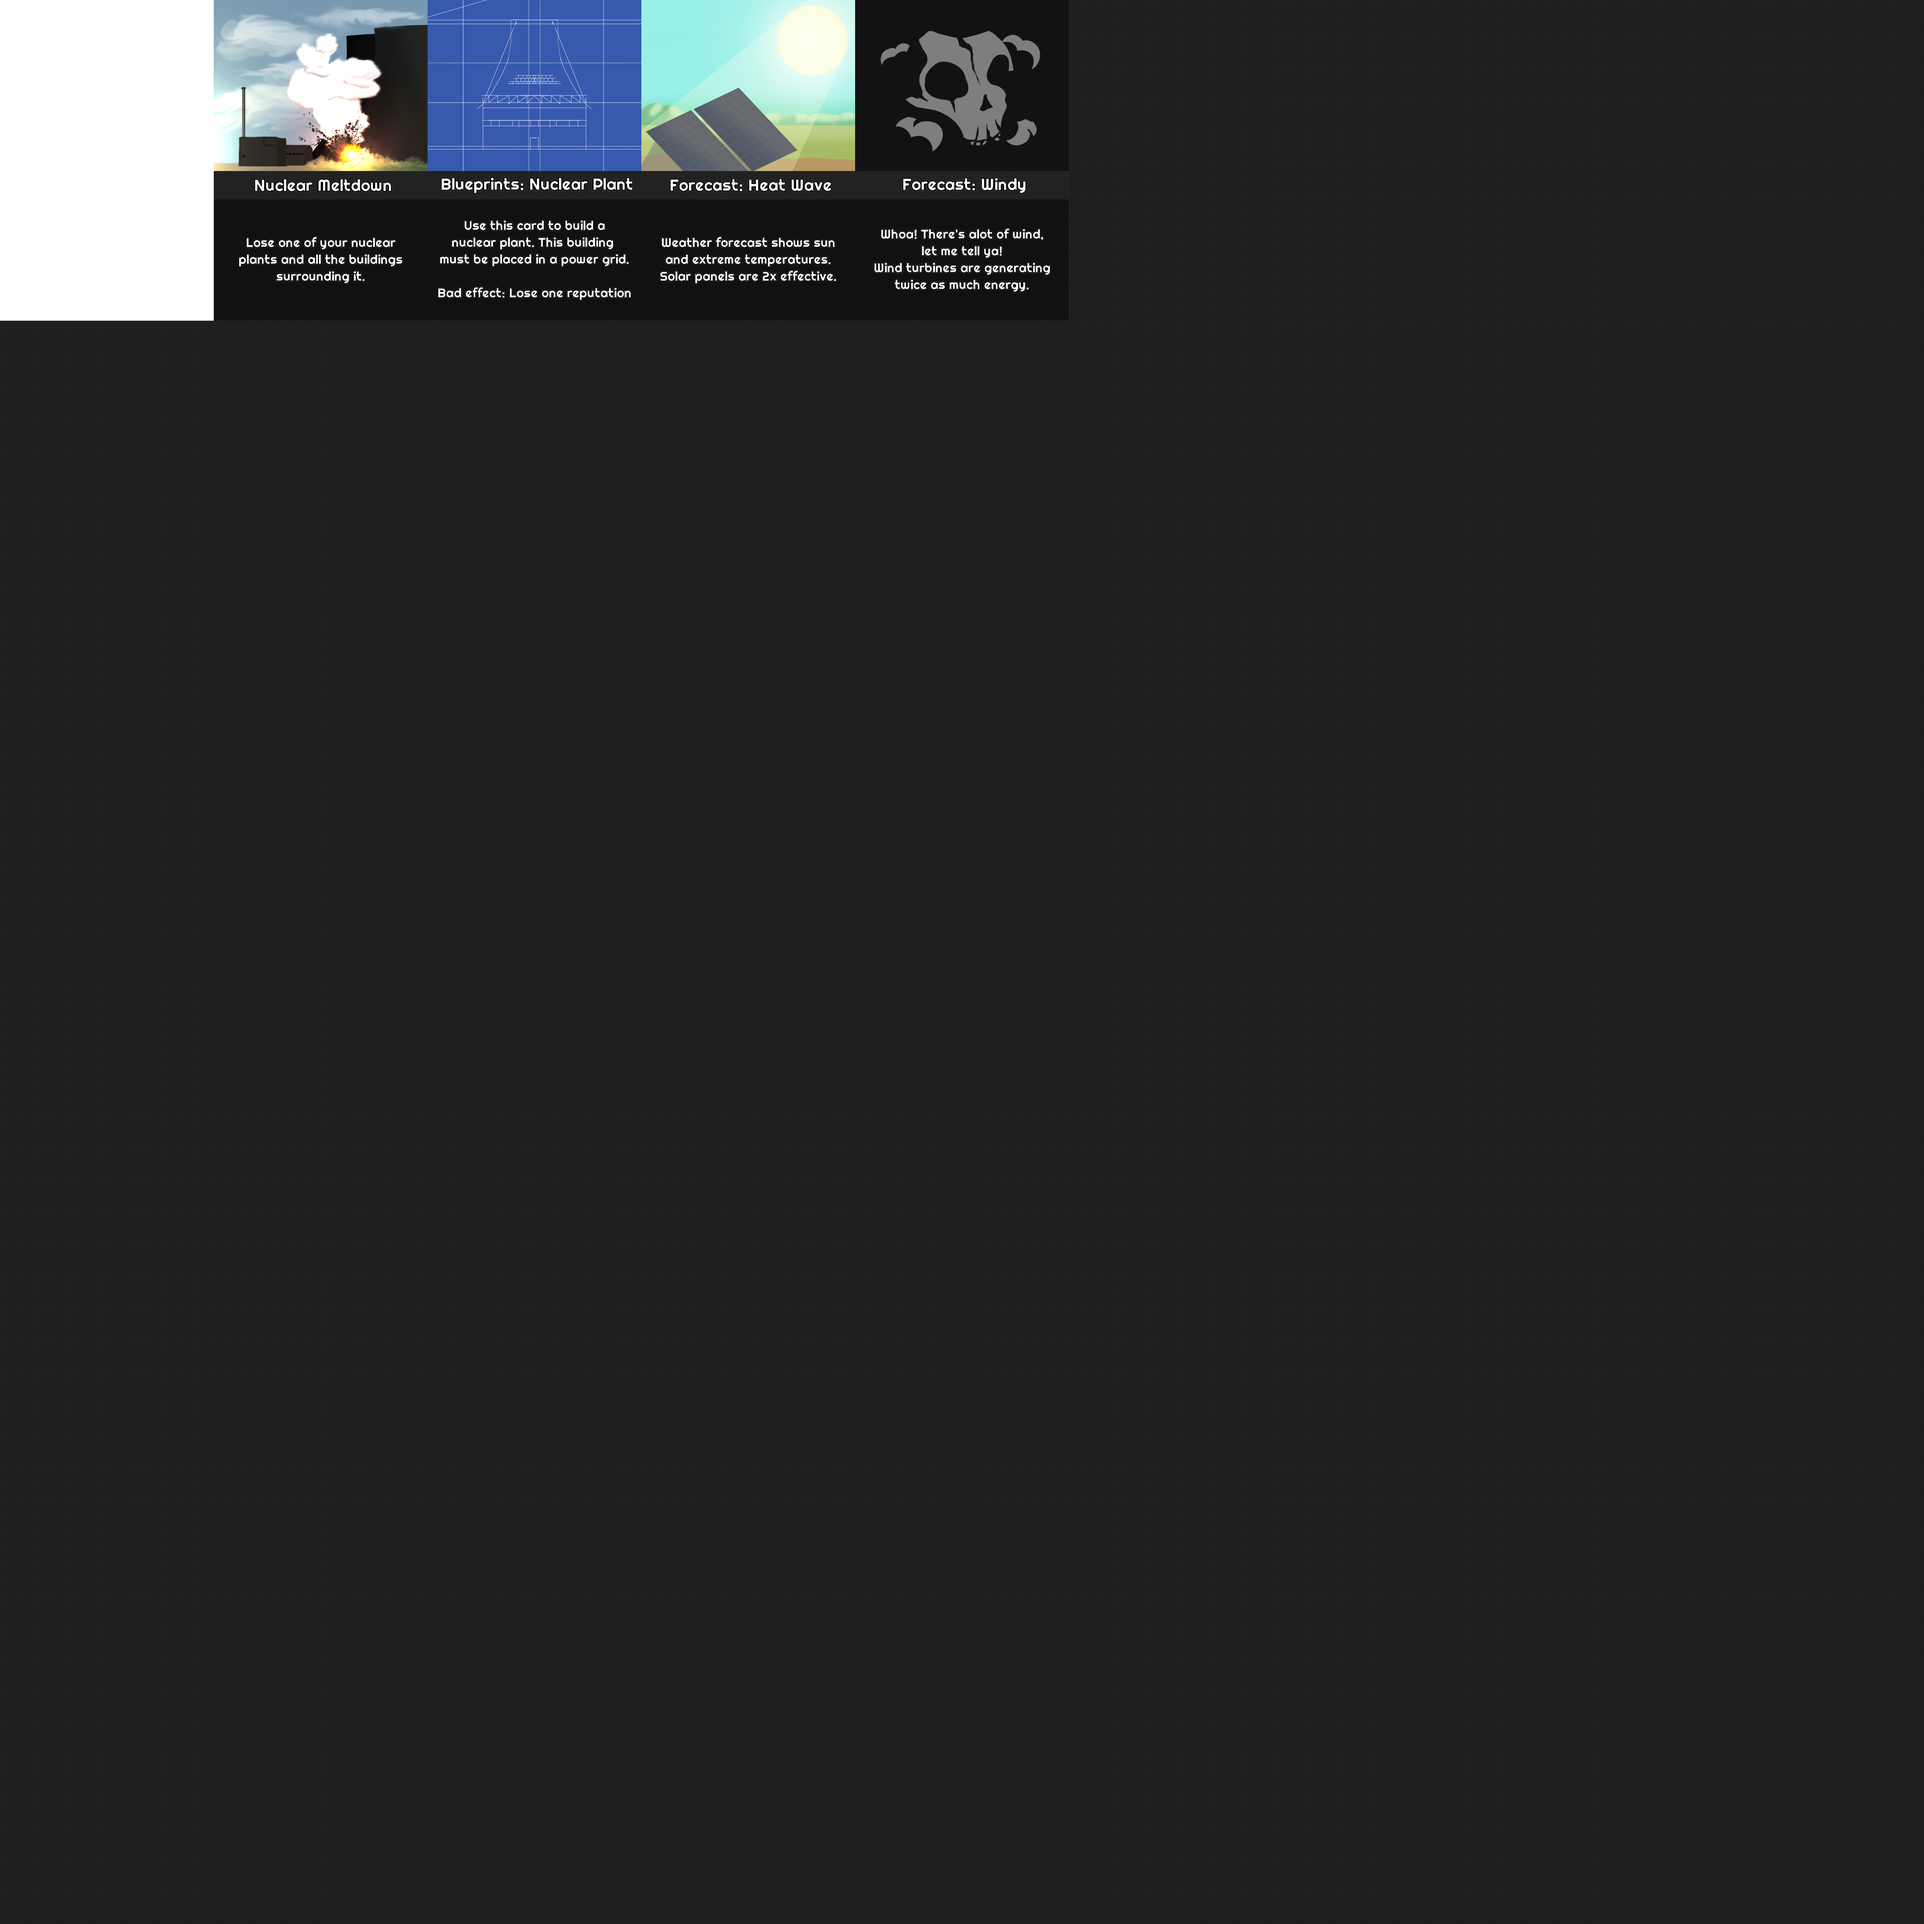
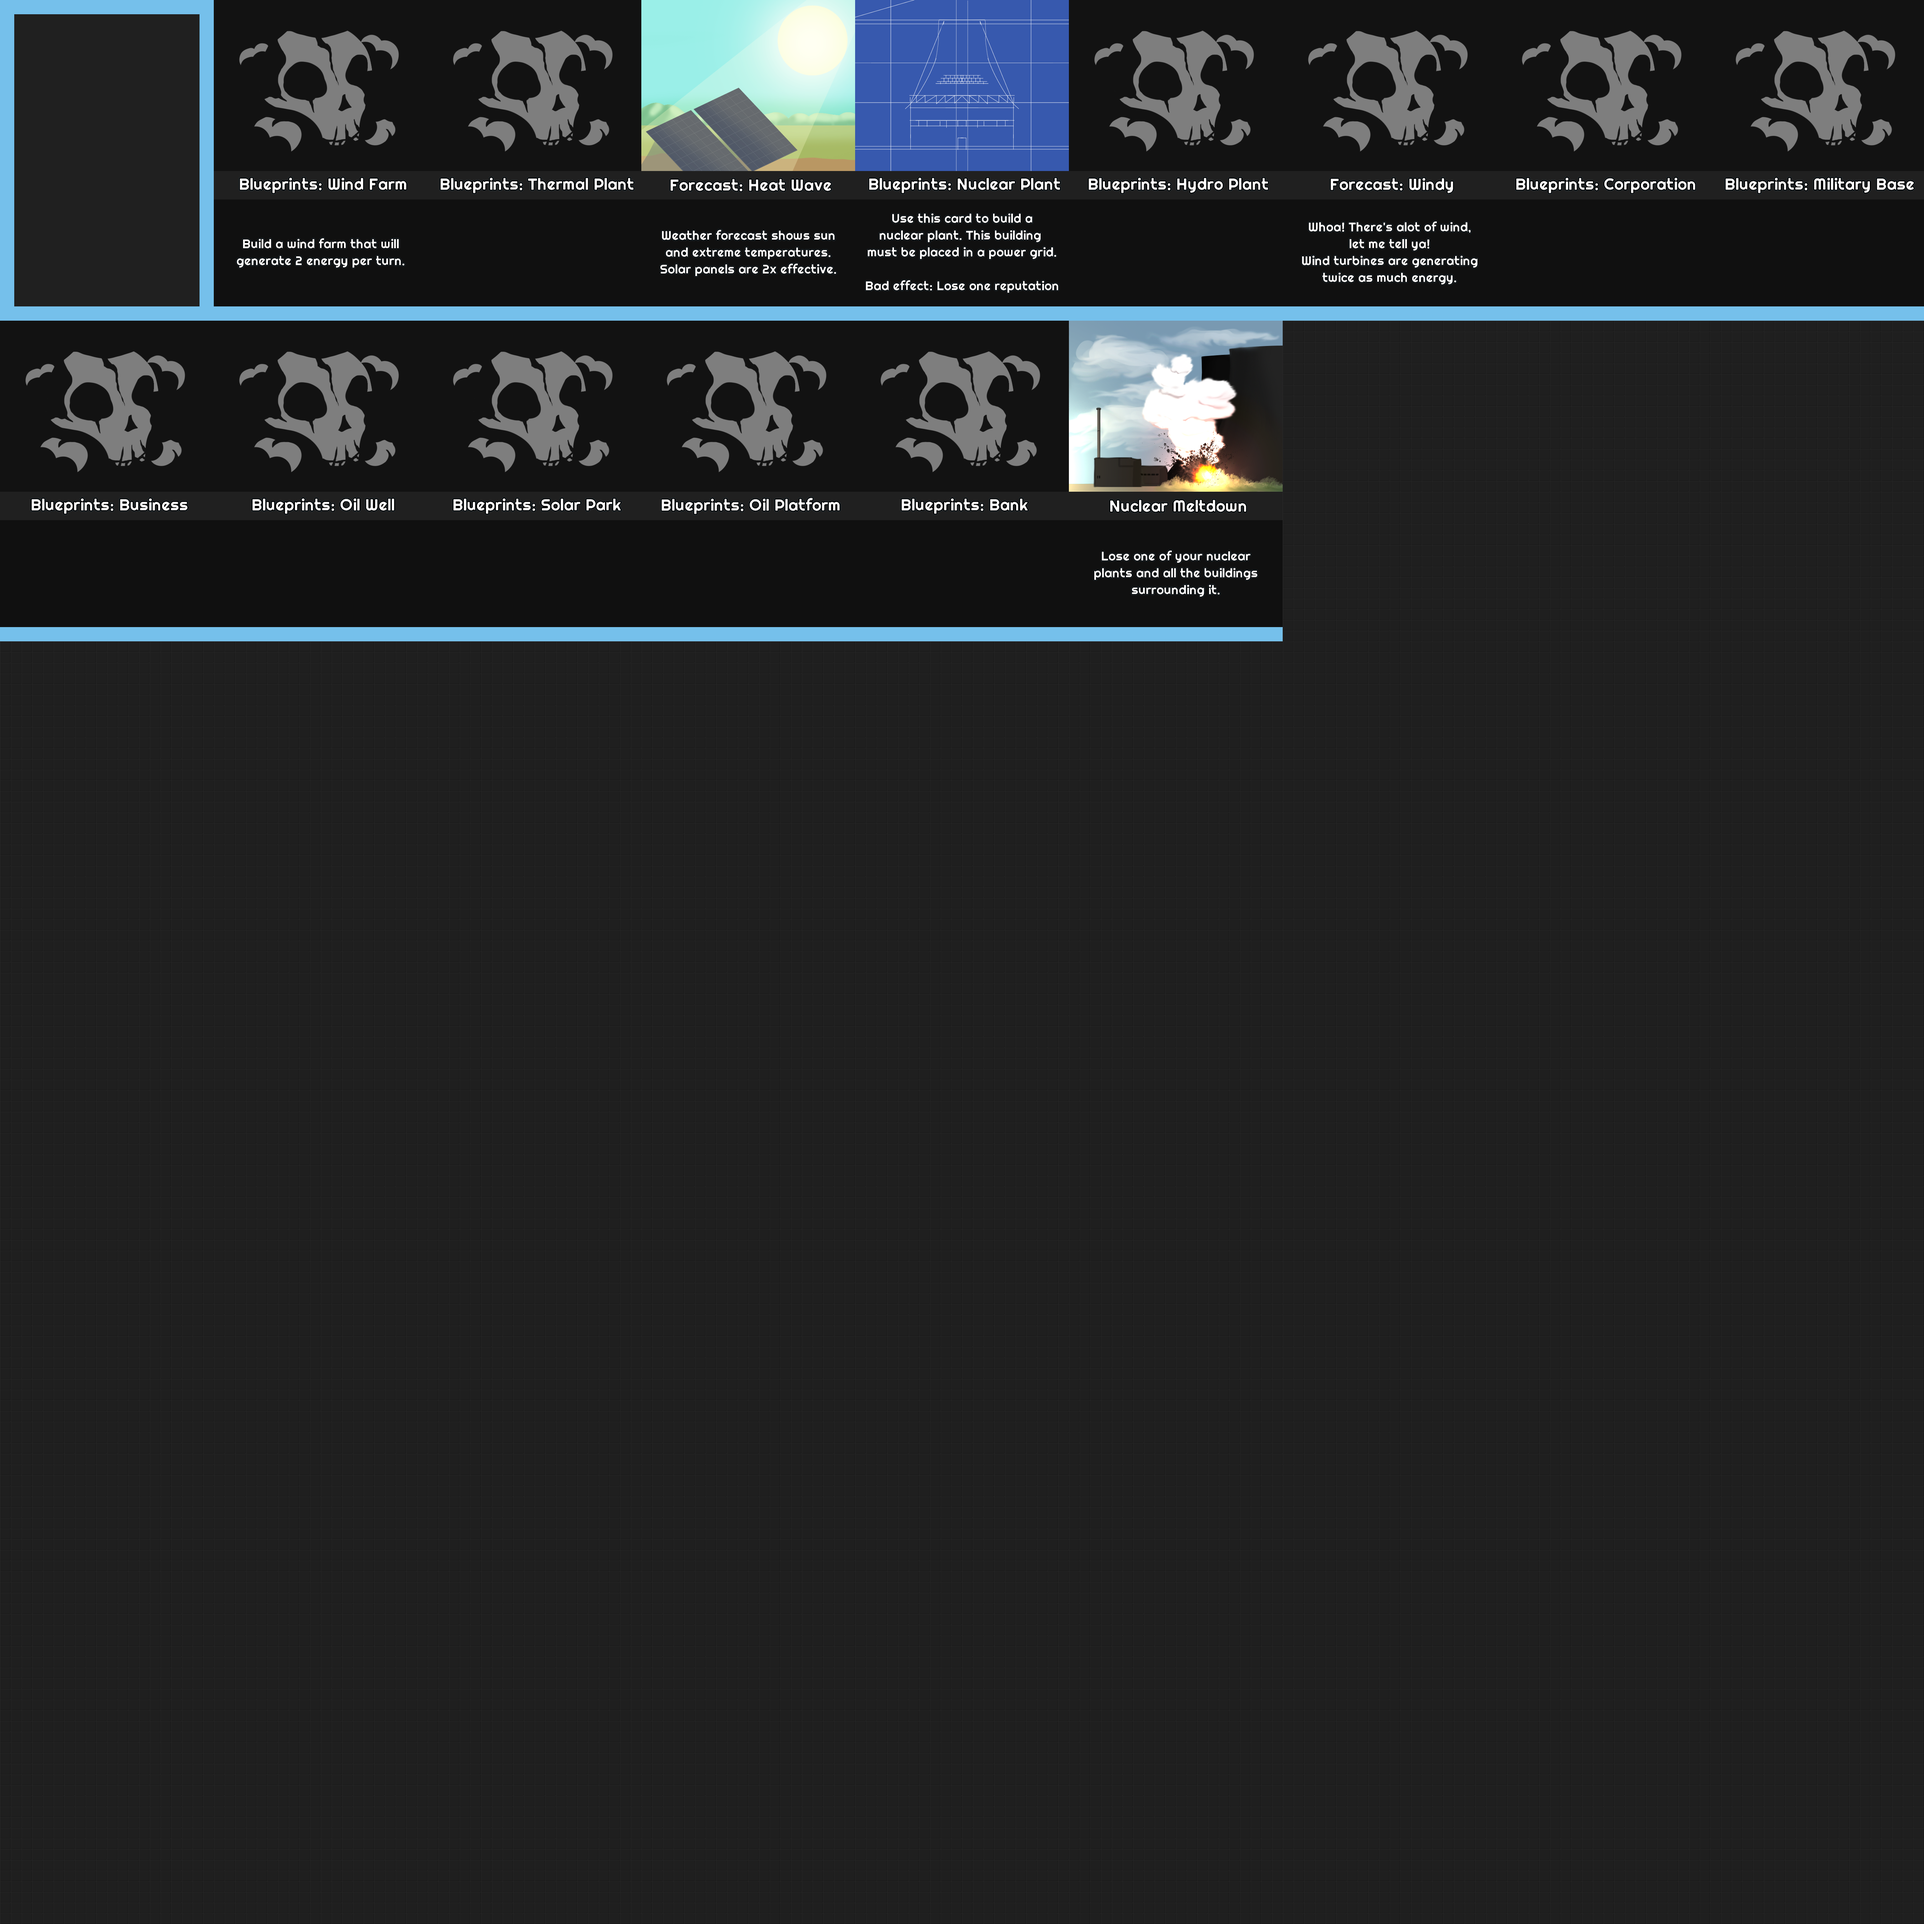
added some cards and work on card animation

Changed region(s): [[0.0, 0.0, 1.0, 0.3422]]

diff --git a/cardgen/cardgen.cpp b/cardgen/cardgen.cpp
@@ -7,7 +7,7 @@
 #include "utility.h"
 #include "glcolor.h"
 
-void CardGen::generateImage(const std::string& id)
+void CardGen::generateImage(const std::string& id, const std::string& destination)
 {
     lithium::Frame* frame = _canvas->frameById(id);
 
@@ -24,7 +24,7 @@ void CardGen::generateImage(const std::string& id)
     int numOfComponents = 3; // RGB
     int strideInBytes   = width * 3;
     stbi_flip_vertically_on_write(true);
-    stbi_write_png("test.png", width, height, 3, data, width * 3);
+    stbi_write_png(destination.c_str(), width, height, 3, data, width * 3);
     stbi_image_free(data);
 }
 
@@ -194,6 +194,14 @@ CardGen::CardGen() : lithium::Application{"lithium-lab", glm::ivec2{1920, 1080},
 
     auto bodyText = bodyFrame->createTextRenderer()->createText(_font, _cardIt->body, 1.1f, lithium::Text::Alignment::CENTER, 1.0f, 1.05f);*/
 
+    const lithium::Color accent{0x75c0eb};
+    const lithium::Color gray{0x202020};
+    const lithium::Color darkGray{0x101010};
+
+    auto backsideFrame = _canvas->frameById("backside");
+    backsideFrame->setColor(accent);
+    backsideFrame->child(0)->setColor(gray);
+
     lithium::json::Json json;
     json.fromFile("cardgen/assets/card_a.json");
     _cardLayoutSystem.load(json);
@@ -208,10 +216,11 @@ CardGen::CardGen() : lithium::Application{"lithium-lab", glm::ivec2{1920, 1080},
         lithium::FrameLayout* cardLayout = canvasFrame->layout()->appendChild(*_cardLayoutSystem.root());
         _canvas->refreshUI();
         auto cardFrame = _canvas->addFrame(cardLayout);
+        cardFrame->setColor(accent);
         cardFrame->frameById("thumbnail")->setTextures(std::vector<lithium::Object::TexturePointer>{card->texture});
-        dynamic_cast<lithium::Frame*>(cardFrame->frameById("title")->setColor(lithium::Color(0x222222)))
+        dynamic_cast<lithium::Frame*>(cardFrame->frameById("title")->setColor(gray))
             ->createTextRenderer()->createText(_font, card->title, 1.4f, lithium::Text::Alignment::CENTER, 1.0f, 1.05f);
-        dynamic_cast<lithium::Frame*>(cardFrame->frameById("body")->setColor(lithium::Color(0x111111)))
+        dynamic_cast<lithium::Frame*>(cardFrame->frameById("body")->setColor(darkGray))
             ->createTextRenderer()->createText(_font, card->body, 1.1f, lithium::Text::Alignment::CENTER, 1.0f, 1.05f);
     }
 
@@ -249,7 +258,7 @@ CardGen::CardGen() : lithium::Application{"lithium-lab", glm::ivec2{1920, 1080},
     });
 
     input()->addPressedCallback(GLFW_KEY_F1, [this](int key, int mods) {
-        generateImage("canvas");
+        generateImage("canvas", "assets/card/test.png");
         return true;
     });
     input()->addPressedCallback(GLFW_KEY_F5, [this](int key, int mods) {

diff --git a/src/app.cpp b/src/app.cpp
@@ -3,6 +3,7 @@
 #include "assetfactory.h"
 
 #include "glcube.h"
+#include "cardobject.h"
 
 App::App() : Application{"lithium-lab", glm::ivec2{1440, 800}, lithium::Application::Mode::MULTISAMPLED_4X, false}
 {
@@ -22,16 +23,20 @@ App::App() : Application{"lithium-lab", glm::ivec2{1440, 800}, lithium::Applicat
     _pipeline->attach(_background.get());
     _background->stage();
 
+    CardObject::sharedMesh = AssetFactory::getMeshes()->card;
+    CardObject::sharedTextures.push_back(AssetFactory::getTextures()->card);
+
     // Create and add a cube to the render pipeline, and stage it for rendering.
-    auto card = std::make_shared<lithium::Object>(AssetFactory::getMeshes()->card,
-        std::vector<lithium::Object::TexturePointer>{AssetFactory::getTextures()->card});
-    card->setPosition(glm::vec3{1.0f, 0.0f, 2.0f});
-    card->setRotation(glm::vec3{90.0f, 0.0f, 0.0f});
-    card->setScale(1.0f);
-    card->setGroupId(Pipeline::CARD);
-    _pipeline->attach(card.get());
-    _objects.push_back(card);
-    card->stage();
+    for(int i{0}; i < 7; ++ i)
+    {
+        auto card = std::make_shared<CardObject>(i, i + 1);
+        card->setPosition(glm::vec3{1.0f, 0.025f * i, 2.0f});
+        card->setRotation(glm::vec3{90.0f, 0.0f, 0.0f});
+        card->setGroupId(Pipeline::CARD);
+        _pipeline->attach(card.get());
+        _hand.addCard(card);
+        card->stage();
+    }
 
     static constexpr size_t numSpheres = 15;
 
@@ -194,7 +199,7 @@ App::App() : Application{"lithium-lab", glm::ivec2{1440, 800}, lithium::Applicat
 
     // Set the camera oirigin position and target.
     _pipeline->camera()->setTarget(glm::vec3{0.0f, 1.0f, 0.0f});
-    _pipeline->camera()->setTarget(card->position());
+    _pipeline->camera()->setTarget(glm::vec3{1.0f, 0.0f, 2.0f});
 
     printf("%s\n", glGetString(GL_VERSION));
 }
@@ -237,6 +242,7 @@ void App::update(float dt)
     float camX = sin(_cameraAngle) * cameraRadius;
     float camZ = cos(_cameraAngle) * cameraRadius;
     _pipeline->camera()->setPosition(glm::vec3{camX, _camY, camZ});
+    _hand.update(dt);
     _cubemapHDR->bind(GL_TEXTURE0);
     _pipeline->setTime(time());
     _pipeline->render();

diff --git a/include/hand.h b/include/hand.h
@@ -1,0 +1,59 @@
+#pragma once
+
+#include "ihand.h"
+#include "cardobject.h"
+#include "glupdateable.h"
+
+class Hand : public IHand, public lithium::Updateable
+{
+public:
+    Hand()
+    {
+
+    }
+
+    virtual ~Hand() noexcept
+    {
+
+    }
+
+    virtual void update(float dt) override
+    {
+        lithium::Updateable::update(dt);
+        for(auto& card : _cards)
+        {
+            card->update(dt);
+        }
+    }
+
+    void addCard(std::shared_ptr<CardObject> card)
+    {
+        _cards.push_back(card);
+        card->setIHand(this);
+    }
+
+    virtual int slots() const override
+    {
+        return 7;
+    }
+
+    virtual int cards() const override
+    {
+        return _cards.size();
+    }
+
+    virtual int index(CardObject* cardObject) const override
+    {
+        for(int idx{0}; idx < _cards.size(); ++idx)
+        {
+            if(_cards[idx].get() == cardObject)
+            {
+                return idx;
+            }
+        }
+        return -1;
+    }
+
+private:
+    std::vector<std::shared_ptr<CardObject>> _cards;
+};

diff --git a/src/cardobject.cpp b/src/cardobject.cpp
@@ -1,0 +1,36 @@
+#include "cardobject.h"
+
+std::shared_ptr<lithium::Mesh> CardObject::sharedMesh{nullptr};
+std::vector<lithium::Object::TexturePointer> CardObject::sharedTextures{};
+
+CardObject::CardObject(uint32_t id, uint32_t type) : Object{sharedMesh, sharedTextures}, _id(id), _type(type)
+{
+    int n = type;
+    assert(n > 0);
+    int X = n % 9;
+    int Y = n / 9;
+    assert(Y < 6);
+    _cardData = glm::vec4{
+        X / 9.0f,
+        Y / 6.0f,
+        0.0f,
+        -0.4f
+    };
+}
+
+CardObject::~CardObject() noexcept
+{
+}
+
+void CardObject::update(float dt)
+{
+    lithium::Object::update(dt);
+    static const float cardSpacing{0.1f};
+    _cardData.z = -_iHand->cards() * 0.5f * cardSpacing + _iHand->index(this) * cardSpacing;
+}
+
+void CardObject::shade(lithium::ShaderProgram* shaderProgram)
+{
+    lithium::Object::shade(shaderProgram);
+    shaderProgram->setUniform("u_card_data", _cardData);
+}

diff --git a/include/cardobject.h b/include/cardobject.h
@@ -1,0 +1,35 @@
+#pragma once
+
+#include "globject.h"
+#include "ihand.h"
+
+class CardObject : public lithium::Object
+{
+public:
+    static std::shared_ptr<lithium::Mesh> sharedMesh;
+    static std::vector<lithium::Object::TexturePointer> sharedTextures;
+
+    CardObject(uint32_t id, uint32_t type);
+
+    virtual ~CardObject() noexcept;
+
+    virtual void update(float dt) override;
+
+    virtual void shade(lithium::ShaderProgram* shaderProgram) override;
+
+    void setIHand(IHand* iHand)
+    {
+        _iHand = iHand;
+    }
+
+    IHand* iHand() const
+    {
+        return _iHand;
+    }
+
+private:
+    IHand* _iHand{nullptr};
+    uint32_t _id;
+    uint32_t _type;
+    glm::vec4 _cardData;
+};

diff --git a/include/app.h b/include/app.h
@@ -4,6 +4,7 @@
 #include "pipeline.h"
 #include "glmesh.h"
 #include "glcubemaphdr.h"
+#include "hand.h"
 
 class App : public lithium::Application
 {
@@ -23,6 +24,7 @@ protected:
     }
 
 private:
+    Hand _hand;
     std::shared_ptr<Pipeline> _pipeline{nullptr};
     std::shared_ptr<lithium::Object> _skybox{nullptr};
     std::vector<std::shared_ptr<lithium::Object>> _objects;

diff --git a/cardgen/cardgen.h b/cardgen/cardgen.h
@@ -25,7 +25,7 @@ public:
         std::cout << "FPS: " << fps << std::endl;
     }
 
-    void generateImage(const std::string& id);
+    void generateImage(const std::string& id, const std::string& destination="test.png");
     
     void loadCards();
     void loadCard(const std::filesystem::path& filename);

diff --git a/include/ihand.h b/include/ihand.h
@@ -1,0 +1,11 @@
+#pragma once
+
+class CardObject;
+
+class IHand
+{
+public:
+    virtual int slots() const = 0;
+    virtual int cards() const = 0;
+    virtual int index(CardObject* cardObject) const = 0;
+};
